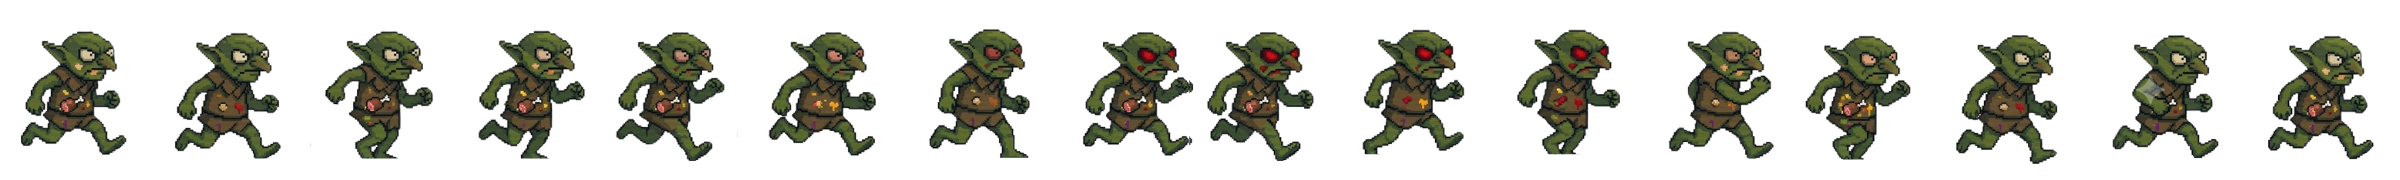
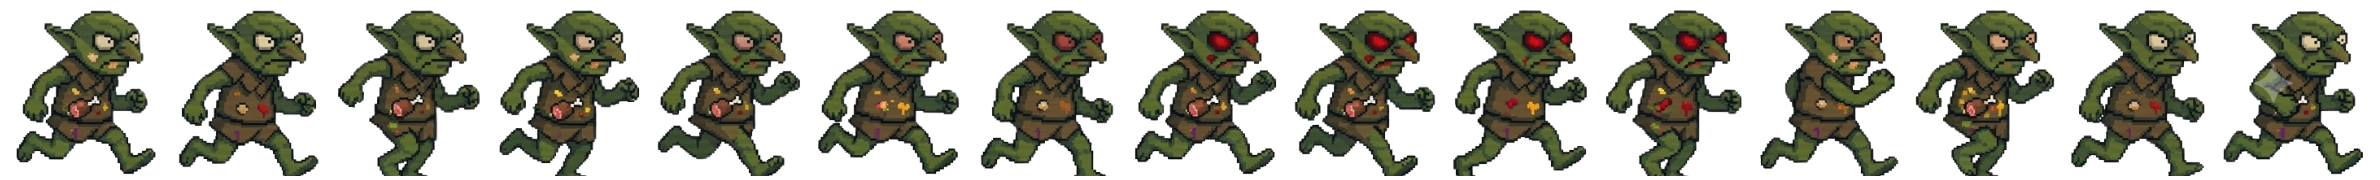
u

diff --git a/sketch.js b/sketch.js
@@ -441,13 +441,13 @@ const level3ChaseCompleteDialogue = [
 const GOBLIN_COLLISION_RADIUS = 14;
 
 const GOBLIN_LVL3_RUNNING = {
-  frameWidth: 130,
+  frameWidth: 160,
 
-  frameHeight: 170,
+  frameHeight: 180,
 
   numFrames: 15,
 
-  animSpeed: 4,
+  animSpeed: 5,
 
   scale: 0.3,
 };

diff --git a/README.md b/README.md
@@ -42,29 +42,72 @@ After conducting playtesting for our final game, we implemented a triangular las
 
 ## Assets
 
-|               File                |                                             Source                                         |
-|-----------------------------------|--------------------------------------------------------------------------------------------|
-| `assets/sounds/walking.mp3`[1]    | Abdalrahman_bm, 8-bit gravel footsteps 1 - Pixabay.com                                     |
-| `assets/sounds/collect.mp3`[5]    | floraphonic, 90s Game UI 6 - Pixabay.com                                                   |
-| `assets/sounds/win.mp3`[6]        | Latent-Rick, Retro Arcade Level Up - Pixabay.com                                           |
-| `assets/sounds/fail.mp3`[7]       | Make_More_Sound, 8 Bit Video Game Lose Sound - Version 1 - Pixabay.com                     |
-| `assets/sounds/bgmusic.mp3`[9]    | Montogoronto, A night full of stars - Peaceful electronic 8-bit/piano track - Pixabay.com  |
+|               File                 |                                             Source                                         |
+|------------------------------------|--------------------------------------------------------------------------------------------|
+| `assets/sounds/walking.mp3`[1]     | Abdalrahman_bm, 8-bit gravel footsteps 1 - Pixabay.com                                     |
+| `assets/sounds/collect.mp3`[5]     | floraphonic, 90s Game UI 6 - Pixabay.com                                                   |
+| `assets/sounds/win.mp3`[6]         | Latent-Rick, Retro Arcade Level Up - Pixabay.com                                           |
+| `assets/sounds/fail.mp3`[7]        | Make_More_Sound, 8 Bit Video Game Lose Sound - Version 1 - Pixabay.com                     |
+| `assets/sounds/bgmusic.mp3`[9]     | Montogoronto, A night full of stars - Peaceful electronic 8-bit/piano track - Pixabay.com  |
 | `assets/sounds/hit.mp3`[10]        | Make_More_Sound, 8 Bit Video Game Lose Sound - Version 1 - Pixabay.com                     |
-|                                   |                                                                                            |
-| `assets/images/character.png`     | Gemini 3.5 Flash and ChatGPT                                                                         |
-| `assets/images/dirt.png`          | Gemini 3.5 Flash                                                                           |
-| `assets/images/firefly.png`       | Gemini 3.5 Flash                                                                           |
-| `assets/images/fireflybadge.png`  | Gemini 3.5 Flash                                                                           |        
-| `assets/images/forest.png`        | Gemini 3.5 Flash                                                                           |
-| `assets/images/homescreen.png`    | Gemini 3.5 Flash and ChatGPT                                                               |
-| `assets/images/house.png`         | Gemini 3.5 Flash                                                                           |
-| `assets/images/HUD.png`           | Gemini 3.5 Flash                                                                           |
-| `assets/images/laserOff.png`      | Gemini 3.5 Flash                                                                           |
-| `assets/images/laserOn.png`       | Gemini 3.5 Flash                                                                           |
-| `assets/images/level1complete.png`| Gemini 3.5 Flash and ChatGPT                                                               |
-| `assets/images/restartscreen.png` | Gemini 3.5 Flash and ChatGPT                                                               |
-| `assets/images/school.png`        | Gemini 3.5 Flash                                                                           |
-| `assets/images/trees.png`         | Gemini 3.5 Flash                                                                           |
+|                                    |                                                                                            |
+| `assets/images/apple.png`          | Gemini 3.6 Flash                                                                           |
+| `assets/images/blackhole.png`      | Gemini 3.6 Flash                                                                           |
+| `assets/images/bone.png`           | Gemini 3.6 Flash                                                                           |
+| `assets/images/burger.png`         | Gemini 3.6 Flash                                                                           |
+| `assets/images/cafedoor.png`       | Gemini 3.6 Flash                                                                           |
+| `assets/images/cafeentrance.png`   | Gemini 3.6 Flash                                                                           |
+| `assets/images/cafeTable.png`      | Gemini 3.6 Flash                                                                           |
+| `assets/images/cafeteria.png`      | Gemini 3.6 Flash                                                                           |
+| `assets/images/character.png`      | Gemini 3.6 Flash and ChatGPT                                                               |
+| `assets/images/characterlvl2.png`  | Gemini 3.6 Flash                                                                           |
+| `assets/images/characterlvl3.png`  | Gemini 3.6 Flash                                                                           |
+| `assets/images/classroomdoor.png`  | Gemini 3.6 Flash                                                                           |
+| `assets/images/cobblestone.png`    | Gemini 3.6 Flash and ChatGPT                                                               |
+| `assets/images/completelvl1.png`   | Gemini 3.6 Flash and ChatGPT                                                               |
+| `assets/images/completelvl2.png`   | Gemini 3.6 Flash and ChatGPT                                                               |
+| `assets/images/completelvl3.png`   | Gemini 3.6 Flash and ChatGPT                                                               |
+| `assets/images/cookie.png`         | Gemini 3.6 Flash                                                                           |
+| `assets/images/corn.png`           | Gemini 3.6 Flash                                                                           |
+| `assets/images/crackedStone.png`   | Gemini 3.6 Flash                                                                           |
+| `assets/images/desk.png`           | Gemini 3.6 Flash                                                                           |
+| `assets/images/desksMaterials.png` | Gemini 3.6 Flash                                                                           |
+| `assets/images/desksMaterials2.png`| Gemini 3.6 Flash                                                                           |
+| `assets/images/dirt.png`           | Gemini 3.6 Flash                                                                           |
+| `assets/images/dragonBlood.png`    | Gemini 3.6 Flash                                                                           |
+| `assets/images/drumstick.png`      | Gemini 3.6 Flash                                                                           |
+| `assets/images/emptyCafeTable.png` | Gemini 3.6 Flash                                                                           |
+| `assets/images/eyeballs.png`       | Gemini 3.6 Flash                                                                           |
+| `assets/images/faillvl2.png`       | Gemini 3.6 Flash                                                                           |
+| `assets/images/faillvl3.png`       | Gemini 3.6 Flash                                                                           |
+| `assets/images/feather.png`        | Gemini 3.6 Flash                                                                           |
+| `assets/images/firefly.png`        | Gemini 3.6 Flash                                                                           |
+| `assets/images/fireflybadge.png`   | Gemini 3.6 Flash                                                                           | 
+| `assets/images/flask.png`          | Gemini 3.6 Flash                                                                           |
+| `assets/images/floorlvl3.png`      | Gemini 3.6 Flash                                                                           |
+| `assets/images/foodBadge.png`      | Gemini 3.6 Flash                                                                           |
+| `assets/images/foodcounter1.png`   | Gemini 3.6 Flash                                                                           |
+| `assets/images/foodcounter2.png`   | Gemini 3.6 Flash                                                                           |
+| `assets/images/foodcounter3.png`   | Gemini 3.6 Flash                                                                           |
+| `assets/images/forest.png`         | Gemini 3.6 Flash                                                                           |
+| `assets/images/fork.png`           | Gemini 3.6 Flash                                                                           |
+| `assets/images/gamecompleted.png`  | Gemini 3.6 Flash                                                                           |
+| `assets/images/garbage.png`        | Gemini 3.6 Flash                                                                           |
+| `assets/images/goblin.png`         | Gemini 3.6 Flash                                                                           |
+| `assets/images/goblins.png`        | Gemini 3.6 Flash                                                                           |
+| `assets/images/goblinslvl2.png`    | Gemini 3.6 Flash                                                                           |
+| `assets/images/goblinslvl3-running.png`      | Gemini 3.6 Flash                                                                           |
+| `assets/images/goblinslvl3.png`    | Gemini 3.6 Flash                                                                           |
+
+| `assets/images/homescreen.png`     | Gemini 3.6 Flash and ChatGPT                                                               |
+| `assets/images/house.png`          | Gemini 3.6 Flash                                                                           |
+| `assets/images/HUD.png`            | Gemini 3.6 Flash                                                                           |
+| `assets/images/laserOff.png`       | Gemini 3.6 Flash                                                                           |
+| `assets/images/laserOn.png`        | Gemini 3.6 Flash                                                                           |
+| `assets/images/level1complete.png` | Gemini 3.6 Flash and ChatGPT                                                               |
+| `assets/images/restartscreen.png`  | Gemini 3.6 Flash and ChatGPT                                                               |
+| `assets/images/school.png`         | Gemini 3.6 Flash                                                                           |
+| `assets/images/trees.png`          | Gemini 3.6 Flash                                                                           |
 
 ## References
 
